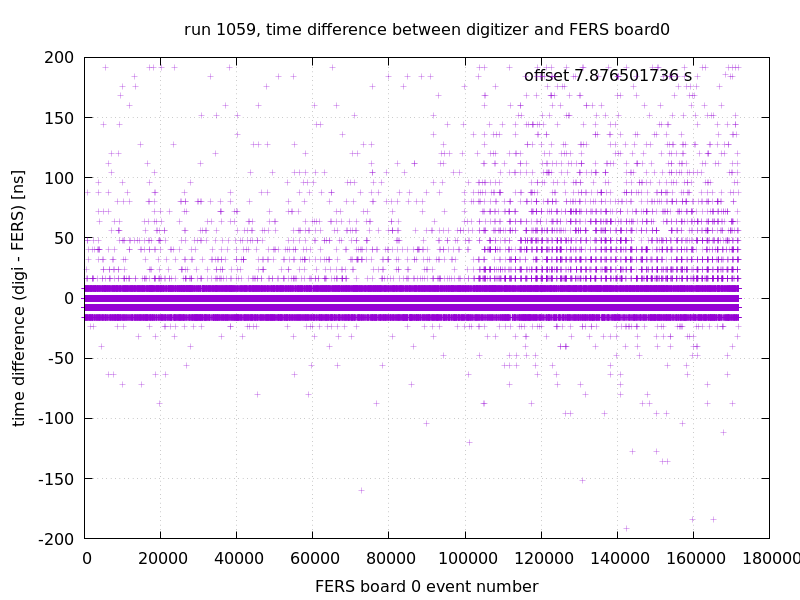
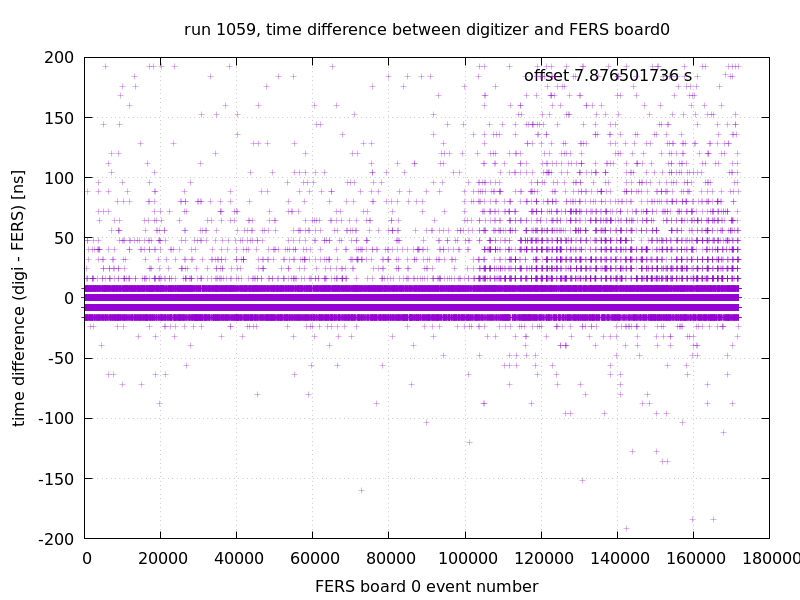
implementing automatic run of QC_scripts, cleanup from heavy files

diff --git a/event_builder/sync_lists.py b/event_builder/sync_lists.py
@@ -10,10 +10,10 @@ import numpy as np
 import time
 
 # set settings
-pathdatamaster = "../"
-pathqc = pathdatamaster + "../data/QC/"
-pathin = pathdatamaster + "../data/input/"
-pathout = pathdatamaster + "../data/output/sync_lists/"
+pathdatamaster = "../data/"
+pathqc = pathdatamaster + "QC/"
+pathin = pathdatamaster + "input/"
+pathout = pathdatamaster + "output/sync_lists/"
 listname = "FERS_runList_beams" # FERS_runList_total / FERS_runList_beams
 fers_bd = [0 , 1]
 digi_ch = {0:6 , 1:7}

diff --git a/event_builder/builder_digi.cpp b/event_builder/builder_digi.cpp
@@ -1,4 +1,4 @@
-// DIGI-only event builder for runs without a FERS counterpart
+// digitiser-only event builder for runs without a FERS counterpart in the FCC TileCal beamtest data
 // by M. Soldani, 2026 - developed with OpenAI Codex (GPT-5.5)
 
 /* compilation:

diff --git a/event_builder/builder_fers.cpp b/event_builder/builder_fers.cpp
@@ -1,4 +1,4 @@
-// FERS-only event builder for runs without a digitiser counterpart
+// FERS-only event builder for runs without a digitiser counterpart in the FCC TileCal beamtest data
 // by M. Soldani, 2026 - developed with OpenAI Codex (GPT-5.5)
 
 /* compilation: